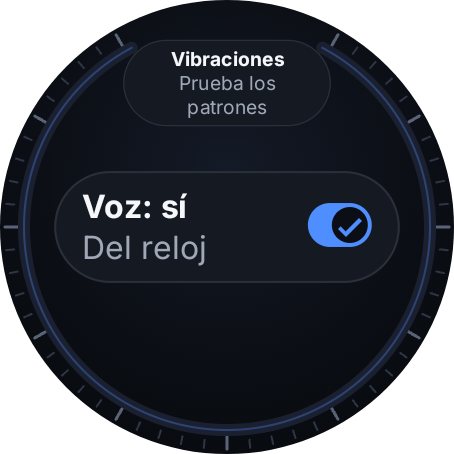
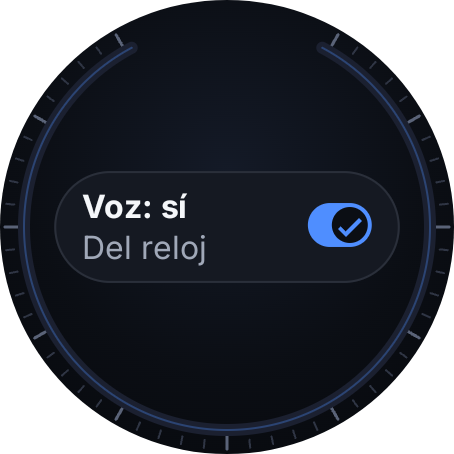
Ocultar lo que no cabe en el círculo y separar la llegada en líneas
Probado el rediseño en el emulador recorriendo una ruta real de 1,4 km con desvío y sin señal. Con un destino largo la llegada era un solo bloque que no cabía ni achicado y su última línea pisaba el anillo; ahora título, destino y largo de la ruta van aparte y RumboScreen oculta lo que no cabe ni al 60 %, en vez de mirar solo el centro. Nueva captura con el nombre largo.

Changed region(s): [[0.37, 0.0925, 0.6476, 0.2775]]

diff --git a/watchapp/app/src/main/java/com/rumbo/watchapp/presentation/screens/RumboScreen.kt b/watchapp/app/src/main/java/com/rumbo/watchapp/presentation/screens/RumboScreen.kt
@@ -41,8 +41,8 @@ import kotlin.math.sqrt
 private val ItemSpacing = 8.dp
 
 // Lo más que se achica un elemento al pasar por el borde. Nunca se atenúa: el texto conserva su
-// contraste de 4,5:1. Lo que tiene el centro fuera del círculo no se dibuja hasta que se
-// desplace hacia adentro: nada asoma cortado por el borde redondo.
+// contraste de 4,5:1. Lo que ni así cabe en el círculo no se dibuja hasta que se desplace hacia
+// adentro: nada asoma cortado por el borde redondo ni pisa el anillo.
 private const val MIN_EDGE_SCALE = 0.6f
 
 /**
@@ -148,8 +148,8 @@ fun RumboScreen(
  * Columna centrada con separación fija. En pantalla redonda, lo que pasa por el borde de arriba
  * o de abajo se achica lo justo para entrar en el círculo, como en las listas de Wear, en vez de
  * quedar cortado (el círculo queda a [edgeInset] del borde: con dial, por dentro del anillo); lo
- * que tiene el centro fuera del círculo espera oculto. No se atenúa, para no perder contraste. El
- * modificador debe incluir el desplazamiento y [contentPadding].
+ * que ni achicado cabe espera oculto. No se atenúa, para no perder contraste. El modificador
+ * debe incluir el desplazamiento y [contentPadding].
  */
 @Composable
 private fun RoundColumn(
@@ -204,16 +204,15 @@ private fun RoundColumn(
                     placeable.placeWithLayer(x, y) {
                         // Se lee el desplazamiento aquí: al desplazar solo se recalcula la capa.
                         val screenTop = paddingTop + top - scrollState.value
-                        val centerOffset = screenTop + placeable.height / 2f - centerY
                         val scale = fitScale(
                             halfWidth = placeable.width / 2f,
-                            centerOffset = centerOffset,
+                            centerOffset = screenTop + placeable.height / 2f - centerY,
                             halfHeight = placeable.height / 2f,
                             radius = radius,
                         )
-                        scaleX = scale
-                        scaleY = scale
-                        alpha = if (abs(centerOffset) > radius) 0f else 1f
+                        scaleX = scale ?: MIN_EDGE_SCALE
+                        scaleY = scale ?: MIN_EDGE_SCALE
+                        alpha = if (scale == null) 0f else 1f
                     }
                 }
                 y += placeable.height + gap
@@ -240,11 +239,11 @@ private fun edgeItemShift(halfWidth: Float, halfHeight: Float, radius: Float, ed
 
 /**
  * Escala (entre [MIN_EDGE_SCALE] y 1) con la que un elemento centrado en horizontal, a
- * [centerOffset] px del centro de la pantalla, cabe en el círculo de radio [radius]. El elemento
- * se toma como un rectángulo de esquinas redondeadas (radio = mitad del lado menor), como las
- * píldoras y el texto centrado.
+ * [centerOffset] px del centro de la pantalla, cabe en el círculo de radio [radius], o null si
+ * ni con la mínima cabe. El elemento se toma como un rectángulo de esquinas redondeadas (radio =
+ * mitad del lado menor), como las píldoras y el texto centrado.
  */
-private fun fitScale(halfWidth: Float, centerOffset: Float, halfHeight: Float, radius: Float): Float {
+private fun fitScale(halfWidth: Float, centerOffset: Float, halfHeight: Float, radius: Float): Float? {
     fun fits(scale: Float): Boolean {
         val w = halfWidth * scale
         val h = halfHeight * scale
@@ -253,7 +252,7 @@ private fun fitScale(halfWidth: Float, centerOffset: Float, halfHeight: Float, r
         return farthest <= radius
     }
     if (fits(1f)) return 1f
-    if (!fits(MIN_EDGE_SCALE)) return MIN_EDGE_SCALE
+    if (!fits(MIN_EDGE_SCALE)) return null
     var low = MIN_EDGE_SCALE
     var high = 1f
     repeat(8) {

diff --git a/watchapp/app/src/main/java/com/rumbo/watchapp/presentation/screens/NavigationScreen.kt b/watchapp/app/src/main/java/com/rumbo/watchapp/presentation/screens/NavigationScreen.kt
@@ -298,37 +298,41 @@ private fun SecondaryLine(text: String) {
     )
 }
 
-/** Llegada: disco verde con el check, "¡Llegaste!", el destino y lo que midió la ruta. */
+/**
+ * Llegada: disco verde con el check, "¡Llegaste!", el destino y lo que midió la ruta. Cada línea
+ * va aparte para que entre entera en el círculo (las que no caben esperan abajo); TalkBack lee
+ * "Llegaste a (destino)" en el título.
+ */
 @Composable
 private fun ArrivedContent(state: TrackingState, modifier: Modifier = Modifier) {
-    GlassDisc(size = 60.dp, halo = StatusArrived, fill = DiscFill(ArrivedLight, StatusArrived)) {
-        StateIcon(StateIconKind.ARRIVED, OnColor, size = 34.dp, contentDescription = null)
+    GlassDisc(size = 56.dp, halo = StatusArrived, fill = DiscFill(ArrivedLight, StatusArrived)) {
+        StateIcon(StateIconKind.ARRIVED, OnColor, size = 32.dp, contentDescription = null)
     }
-    Column(
+    Text(
+        text = "¡Llegaste!",
         modifier = modifier.clearAndSetSemantics {
             contentDescription = "Llegaste a ${state.destinationName}"
             liveRegion = LiveRegionMode.Polite
             heading()
         },
-        horizontalAlignment = Alignment.CenterHorizontally,
-        verticalArrangement = Arrangement.spacedBy(2.dp),
-    ) {
-        Text("¡Llegaste!", style = MaterialTheme.typography.displaySmall.copy(fontSize = 26.sp), textAlign = TextAlign.Center)
+        style = MaterialTheme.typography.displaySmall.copy(fontSize = 26.sp),
+        textAlign = TextAlign.Center,
+    )
+    Text(
+        text = state.destinationName,
+        modifier = Modifier.clearAndSetSemantics {},
+        style = MaterialTheme.typography.labelLarge.copy(fontSize = 18.sp, lineHeight = 22.sp),
+        textAlign = TextAlign.Center,
+        maxLines = 2,
+        overflow = TextOverflow.Ellipsis,
+    )
+    state.route?.let { route ->
         Text(
-            text = state.destinationName,
-            style = MaterialTheme.typography.labelLarge.copy(fontSize = 18.sp, lineHeight = 22.sp),
+            text = "Ruta de ${formatDistance(route.distanceM)}",
+            style = MaterialTheme.typography.bodyMedium,
+            color = MaterialTheme.colorScheme.onSurfaceVariant,
             textAlign = TextAlign.Center,
-            maxLines = 2,
-            overflow = TextOverflow.Ellipsis,
         )
-        state.route?.let { route ->
-            Text(
-                text = "Ruta de ${formatDistance(route.distanceM)}",
-                style = MaterialTheme.typography.bodyMedium,
-                color = MaterialTheme.colorScheme.onSurfaceVariant,
-                textAlign = TextAlign.Center,
-            )
-        }
     }
 }
 

diff --git a/watchapp/app/src/androidTest/java/com/rumbo/watchapp/presentation/ScreenshotsTest.kt b/watchapp/app/src/androidTest/java/com/rumbo/watchapp/presentation/ScreenshotsTest.kt
@@ -253,6 +253,13 @@ class ScreenshotsTest {
         },
         Shot("13_sin_senal") { Navigation(tracking(NavigationStatus.NO_SIGNAL, pattern = pattern(VibrationCue.NO_SIGNAL))) },
         Shot("14_llegaste") { Navigation(tracking(NavigationStatus.ARRIVED, pattern = pattern(VibrationCue.ARRIVED))) },
+        // Un destino real largo, en dos líneas: lo que no cabe espera abajo en vez de pisar el anillo.
+        Shot("38_llegaste_nombre_largo") {
+            Navigation(
+                tracking(NavigationStatus.ARRIVED, pattern = pattern(VibrationCue.ARRIVED))
+                    .copy(destinationName = "Plazoleta de comidas Unicentro"),
+            )
+        },
         Shot("15_terminar_ruta") { Navigation(tracking(NavigationStatus.ON_ROUTE), confirmFinish = true) },
         Shot("16_lugares_guardados") {
             SavedPlacesScreen(PLACES, onChoose = {}, onDelete = {}, onBack = {})

diff --git a/docs/REQUIREMENTS.md b/docs/REQUIREMENTS.md
@@ -369,7 +369,7 @@ vibration_events (log para demo/sustentación)
 
 Diseñadas en Claude Design (lienzo "Rumbo — UI del reloj"; desde la v0.47, rediseño premium del lienzo "Rumbo — rediseño premium": dial con bisel y anillo, disco de vidrio, insignias rellenas y fondo radial). La app se prueba en el emulador **Wear OS Large Round** (454 × 454 px, 320 dpi = 227 dp); capturas de cada pantalla en `docs/capturas/` (se regeneran con `tools/capture_screens.sh`).
 
-**Pantalla redonda.** Todas usan `RumboScreen`: `ScreenScaffold` de Wear (la hora se esconde al desplazar y aparece el indicador de desplazamiento) sobre el fondo radial (`RumboBackground`: `#141A27` → `#0B0E14` → `#06080C`, con la luz un poco arriba del centro; en Desviado la luz es `#24160F` y en Llegada `#0F2219`, siempre además del texto). Sin dial, márgenes en proporción a la pantalla, 10 % a los lados y 14 % arriba y abajo (en la cuadrada, 5,2 % y 12 %). Con dial (las 9 pantallas del rediseño), el contenido va dentro del círculo de radio `dialContentRadius`: 24 (de 227) por dentro del borde interior del anillo, es decir 24 px en la pantalla de 454 px (12 dp), medido igual que los radios 203 y 214–222 del diseño. Si el contenido cabe, se centra; si no, se desplaza con el dedo o la corona. Lo que pasa por el borde de arriba o de abajo se achica (hasta 60 %) lo justo para entrar en el círculo, sin atenuarse (el texto conserva su contraste), y lo que tiene el centro fuera del círculo no se dibuja hasta que se desplaza hacia adentro: nada asoma cortado por el borde. Lo primero (la insignia de estado) baja lo justo para no quedar oculto, y al final queda espacio para que lo último (los botones) suba, al desplazar hasta abajo, hasta caber entero; un botón a lo ancho llega al centro, como en las listas de Wear. En ruta, al cambiar de estado la pantalla vuelve arriba (`resetScrollKey`): lo nuevo se ve entero, debajo de la hora, y no queda corrido por lo que se había desplazado antes (el contenido corrido bajo la hora visto en la v0.30). El mapa va encima del fondo (`background`); con dial o con mapa no se muestra el indicador de desplazamiento. Sin animaciones continuas: solo se mueven las barras de voz (escuchando y mientras la app habla); el anillo solo se anima al pasar de un valor al siguiente.
+**Pantalla redonda.** Todas usan `RumboScreen`: `ScreenScaffold` de Wear (la hora se esconde al desplazar y aparece el indicador de desplazamiento) sobre el fondo radial (`RumboBackground`: `#141A27` → `#0B0E14` → `#06080C`, con la luz un poco arriba del centro; en Desviado la luz es `#24160F` y en Llegada `#0F2219`, siempre además del texto). Sin dial, márgenes en proporción a la pantalla, 10 % a los lados y 14 % arriba y abajo (en la cuadrada, 5,2 % y 12 %). Con dial (las 9 pantallas del rediseño), el contenido va dentro del círculo de radio `dialContentRadius`: 24 (de 227) por dentro del borde interior del anillo, es decir 24 px en la pantalla de 454 px (12 dp), medido igual que los radios 203 y 214–222 del diseño. Si el contenido cabe, se centra; si no, se desplaza con el dedo o la corona. Lo que pasa por el borde de arriba o de abajo se achica (hasta 60 %) lo justo para entrar en el círculo, sin atenuarse (el texto conserva su contraste), y lo que ni achicado cabe no se dibuja hasta que se desplaza hacia adentro: nada asoma cortado por el borde ni pisa el anillo. Lo primero (la insignia de estado) baja lo justo para no quedar oculto, y al final queda espacio para que lo último (los botones) suba, al desplazar hasta abajo, hasta caber entero; un botón a lo ancho llega al centro, como en las listas de Wear. En ruta, al cambiar de estado la pantalla vuelve arriba (`resetScrollKey`): lo nuevo se ve entero, debajo de la hora, y no queda corrido por lo que se había desplazado antes (el contenido corrido bajo la hora visto en la v0.30). El mapa va encima del fondo (`background`); con dial o con mapa no se muestra el indicador de desplazamiento. Sin animaciones continuas: solo se mueven las barras de voz (escuchando y mientras la app habla); el anillo solo se anima al pasar de un valor al siguiente.
 
 **Gesto de volver.** El "atrás" del sistema (incluido el de TalkBack) y, hasta Android 15, deslizar de izquierda a derecha (`BasicSwipeToDismissBox`; desde Android 16 el sistema convierte ese gesto en "atrás"). Desde Inicio no se intercepta y sale de la app; desde Confirmar, Escuchando, Procesando (cancela la grabación o la carga), Error, Asistente, Lugares guardados y Vibraciones vuelve a Inicio, o a la ruta si hay una en curso (durante la secuencia de demostración primero la detiene); desde "¿Borrar?" vuelve a la lista; desde Mapa vuelve a En ruta sin preguntar; en ruta pregunta "¿Terminar la ruta?" (Seguir navegando / Terminar), salvo que ya se haya llegado, y volver otra vez equivale a "Seguir navegando".
 
@@ -446,6 +446,7 @@ Diseñadas en Claude Design (lienzo "Rumbo — UI del reloj"; desde la v0.47, re
 
 ## 13. Changelog
 
+- **v0.49** (2026-11-20): Rediseño probado en el emulador con la app real contra Render: ruta de 1,4 km a un lugar guardado recorrida con `adb emu geo fix` a 3,5 m/s sobre la polilínea real, con un desvío de 45 m y 16 s sin ubicación. Pasaron, en este orden y con su pantalla: Gira ahora, En ruta, Giro próximo, Gira ahora, Fuera de ruta, recálculo (884 m), En ruta, Sin señal GPS, de vuelta En ruta y Llegaste. También: doble toque para repetir, desplazar hasta los botones (enteros), Ver mapa y Atrás, Preguntar (Escuchando; sin voz en el emulador, el corte por silencio lleva a "No te entendí"), el gesto de volver con "¿Terminar la ruta?" y Seguir navegando, y Terminar desde el botón redondo. Se probó con la voz apagada para no gastar la cuota de Gemini TTS. Arreglado: con un destino real largo ("Plazoleta de comidas Unicentro", en dos líneas), la llegada era un solo bloque que no cabía ni achicado y su última línea pisaba el anillo. Ahora el título, el destino y el largo de la ruta van aparte, y `RumboScreen` oculta lo que no cabe ni al 60 % (antes miraba solo el centro). Nueva captura `38_llegaste_nombre_largo`. Queda: en ruta, la pista de Escuchando ("Pregunta o da una orden") ocupa dos líneas y se ve al desplazar; en Inicio, "Toca y di tu destino" también espera abajo.
 - **v0.48** (2026-11-20): Arreglada una prueba instrumentada que se colgaba con el rediseño (`RouteDoubleTapTest`, las dos que tocan "Terminar"). Con el dial, el círculo del contenido es más chico y, desplazando hasta el final, la última fila de botones seguía pegada al borde de abajo y achicada. `performScrollTo` (Compose 1.8) desplaza mientras el nodo no quede dentro de la vista: como ya no se podía bajar más, repetía sin fin. Le pasaba también a la persona, que veía esos botones siempre achicados. Ahora `RumboScreen` deja espacio al final para que lo último suba hasta caber entero, igual que la insignia baja arriba. 25 instrumentadas en verde (24 más las capturas); capturas desplazadas regeneradas.
 - **v0.47** (2026-11-20): Rediseño premium del reloj, solo presentación (motor de navegación, umbrales, vibraciones, guía hablada, backend y ViewModels sin cambios), según el lienzo "Rumbo — rediseño premium". Componentes compartidos con Canvas de Compose: `BezelTicks` (60 marcas, radio 214–222, cada quinta más larga, encendidas según el avance), `ProgressRing` (arco de 6 dp en el radio 203 con resplandor y punto en la punta; un estilo por estado), `GlassDisc`, `StatusPill` (28 dp, Inter 700 a 12 sp, 0,14 em), `VibrationPill` y `SpeakingPill`, `RoundAction` y el fondo radial `RumboBackground` con la luz teñida en Desviado y Llegada. Aplicado a las 9 pantallas del diseño con los datos reales de `TrackingState`, `Route` y el asistente: Inicio, Escuchando, Confirmar, En ruta, Giro próximo (también Gira ahora y Atención), Desviado, Sin señal, Llegada y Asistente. Datos nuevos solo de presentación: los minutos que faltan al ritmo de la ruta (`remainingWalkingMinutes`) y "Ruta de X" al llegar. `RumboScreen`: el contenido va a 24 (de 227) por dentro del anillo (12 dp en el reloj de 227 dp); ya no se atenúa al pasar por el borde (se achica y, si tiene el centro fuera del círculo, espera oculto: nada asoma cortado y el texto mantiene 4,5:1); la insignia de arriba baja lo justo para no quedar oculta; y, en ruta, cada cambio de estado vuelve arriba para que el contenido no quede corrido bajo la hora. Sin animaciones continuas salvo las barras de voz: la vibración en ruta pasa a una píldora quieta. Interpretación: los 24 "dp" del pedido se midieron en las mismas unidades del diseño de 454 px que los radios 203 y 214–222; en dp reales del reloj (radio de contenido 74,5 dp) la insignia de 12 sp con 0,14 em ("Giro próximo", ~160 dp) no cabe a ninguna altura. Los táctiles sí van en dp reales (≥ 48). Arriba del todo, la insignia se ve achicada por el borde redondo (~70 %). Tests: `DialGeometryTest` (posición de marcas, marcas encendidas según el avance, ángulo del punto y radio del contenido), `VibrationPillTest`, `AnswerSentencesTest` y `ColorContrastTest` ampliado: 22 JUnit nuevos (496). Capturas regeneradas en el emulador.
 

diff --git a/CLAUDE.md b/CLAUDE.md
@@ -26,7 +26,7 @@ Proyecto: **Rumbo**, app Wear OS de navegación por vibraciones para personas ci
 ## Diseño
 - Tokens: fondo `#0B0E14`, superficie `#151922`, texto `#F5F7FA`, secundario `#A0A8B8`, primario `#4F8EFF`. Estados: en ruta `#4F8EFF`, giro próximo `#FFC857`, desviado `#FF8A3D`, sin señal `#8A93A6`, llegada `#3DDC84`, asistente `#7C5CFC` (texto y chip `#9B82FF`). Fuentes: Poppins (títulos), Inter (texto).
 - Rediseño premium (lienzo "Rumbo — rediseño premium"): fondo radial `#141A27` → `#0B0E14` → `#06080C` (`RumboBackground`, con tinte en Desviado y Llegada) y, en las 9 pantallas del diseño, un `Dial` (bisel `BezelTicks` de 60 marcas y anillo `ProgressRing` de 6 dp en el radio 203 de 227), `GlassDisc`, `StatusPill` (28 dp, Inter 700 a 12 sp, 0,14 em), `VibrationPill`/`SpeakingPill` y `RoundAction`. La geometría del dial son funciones puras en `components/DialGeometry.kt` (con JUnit).
-- Nunca comunicar algo solo con color; contraste ≥ 4,5:1 (`ColorContrastTest`). Elementos táctiles ≥ 48 dp (píldoras de 52 dp; botones redondos de 52 dp con su nombre debajo). Todas las pantallas usan `RumboScreen`; con dial, el contenido queda 24 (de 227) por dentro del anillo (12 dp) y nada asoma cortado por el borde. Sin animaciones continuas salvo las barras de voz.
+- Nunca comunicar algo solo con color; contraste ≥ 4,5:1 (`ColorContrastTest`). Elementos táctiles ≥ 48 dp (píldoras de 52 dp; botones redondos de 52 dp con su nombre debajo). Todas las pantallas usan `RumboScreen`; con dial, el contenido queda 24 (de 227) por dentro del anillo (12 dp) y lo que no cabe ni al 60 % espera oculto hasta desplazar: nada asoma cortado ni pisa el anillo. Sin animaciones continuas salvo las barras de voz.
 
 ## Comandos
 - Backend (desde `backend/`, con `venv`): correr `uvicorn main:app --reload`; tests `pytest`; migraciones `python scripts/migrate.py` (a mano: redesplegar Render no las corre). Una maniobra o intención nueva necesita migración: la base tiene `CHECK` con los valores permitidos.
@@ -36,7 +36,7 @@ Proyecto: **Rumbo**, app Wear OS de navegación por vibraciones para personas ci
 - Logcat: `adb logcat -s Nav Vibracion Red` (estados de navegación, patrones de vibración y peticiones al backend).
 - Demo con GPX (`docs/demo`): poner la posición antes de pedir la ruta (`adb emu geo fix -77.278419 1.214997`, primero la longitud; para repetirla, reabrir la app antes); la app ya no inventa el origen. "Sin señal" en el emulador: apagar la ubicación 15 s (`adb shell cmd location set-location-enabled false` y luego `true`); el hueco del GPX no basta.
 
-## Estado (2026-11-20, REQUIREMENTS v0.48)
+## Estado (2026-11-20, REQUIREMENTS v0.49)
 Fases 1–3 completas; fase 4 (asistente y cierre) en curso.
 - Hecho: voz → destino → confirmar (con lugares guardados), ruta a pie, navegación con GPS y vibraciones (giro próximo y maniobra en dos etapas, desvío con recálculo, sin señal, llegada) que se distinguen solo por ritmo en relojes sin control de intensidad, pantalla "Vibraciones" para probarlas (secuencia de demostración y ajustes de intensidad y duración), voz hablada (con barras animadas mientras habla), guía por etapas para personas ciegas (lejos, preparación y ahora, con calle, giros suaves y cerrados, media vuelta, rotonda con salida, "Luego," y aviso del destino con su lado; audio de la siguiente etapa precargado), pasos que Geoapify no clasifica ("Tome las escaleras.": nunca se omiten, se dicen con su texto y "Atención:" si hay peligro, con vibración propia), repetir con doble toque en cualquier parte de En ruta, mapa de la ruta dibujado con Canvas y sin internet (RF14: "Ver mapa", de cerca con el rumbo arriba o la ruta entera, y etiqueta en cada estado; solo lee `TrackingState`), pantalla Escuchando con barras que siguen la voz real y corte automático al terminar de hablar (la voz de la app espera mientras graba), asistente conversacional (RF9: `POST /voice/ask` con el contexto de la ruta; pantalla Asistente y botón "Preguntar" en ruta), órdenes de voz (RF13: `ExecuteVoiceCommand`, micrófono en Inicio, Confirmar y en ruta; guardar destino, repetir, cancelar, cuánto falta y si está guardado, con vibración "Hecho" o "Error" y la voz diciendo el resultado; "Guardado ✓" en la ruta y aviso al iniciar), UI redonda con TalkBack y rediseño premium (dial con bisel y anillo, disco de vidrio, insignias y fondo radial en Inicio, Escuchando, Confirmar, los cinco estados de En ruta y Asistente; en ruta la pantalla vuelve arriba al cambiar de estado), servicio en primer plano (sigue con la pantalla apagada), permisos pedidos al necesitarlos con pantalla de explicación, errores de red/GPS en español con un reintento, "Continuar ruta anterior" si el proceso muere, base de datos con historial, rutas verificadas en mapa (`tools/preview_route.py`) con pasos limpios y simulación realista del GPS (`tools/route_to_gpx.py`).
 - Pruebas: 217 pytest, 496 JUnit (incluye la geometría del dial, la máquina de estados con la ruta real y los tres GPX realistas de `docs/demo`, y 30 recorridos con ruido) y 24 instrumentadas (doble toque, paso desconocido, órdenes de voz y mapa); pruebas manuales en `docs/PRUEBAS.md`.

diff --git a/docs/capturas/README.md b/docs/capturas/README.md
@@ -19,6 +19,7 @@ misma pantalla desplazada hasta el final.
 | `12_fuera_de_ruta.png` | Fuera de ruta: anillo a trazos y fondo teñido |
 | `13_sin_senal.png` | Sin señal GPS: anillo punteado y disco con aros |
 | `14_llegaste.png` | Llegaste: anillo lleno, disco verde con el check, destino y largo de la ruta; fondo teñido |
+| `38_llegaste_nombre_largo.png` | Llegaste con un destino real largo: el nombre, en dos líneas, espera abajo en vez de pisar el anillo |
 | `15_terminar_ruta.png` | "¿Terminar la ruta?" tras el gesto de volver en ruta |
 | `16_lugares_guardados.png`, `17_borrar_lugar.png` | Lugares guardados y borrar |
 | `18_vibraciones.png` | Probar vibraciones: "Intensidad: sí", ajustes de intensidad y duración, Secuencia de demostración y cada patrón con su descripción |
